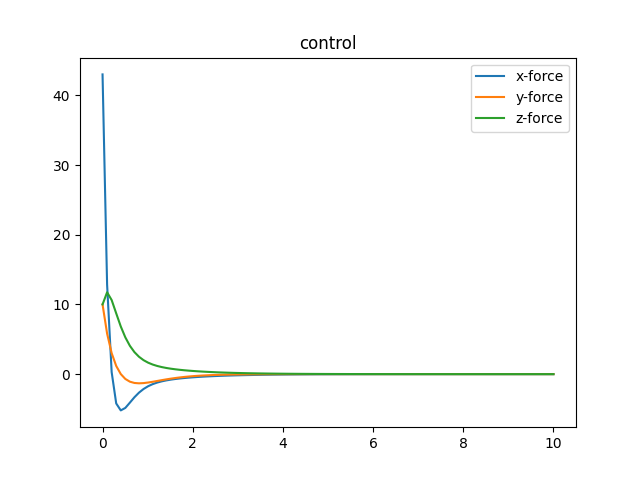
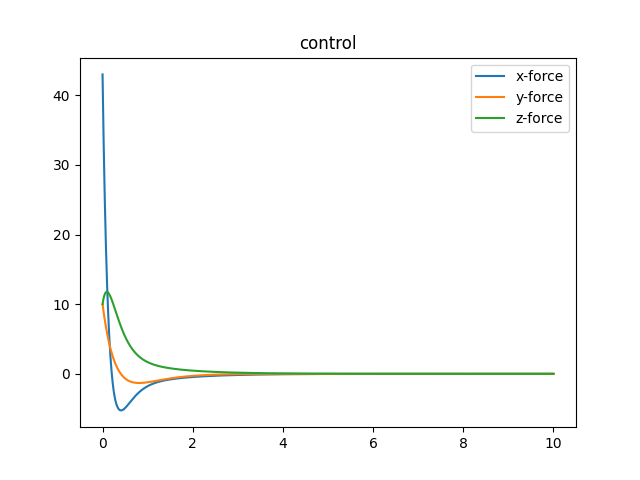
Increase h to get smoother plots

diff --git a/__.py b/__.py
@@ -12,12 +12,11 @@ m_B = np.array([[0, 0, 0], [0, 0, 0], [0, 0, 0], [1, 0, 0], [0, 1, 0], [0, 0, 1]
 # Feedback Gain
 m_K = np.array([[30, 0, 0, 11, 0, 2], [0, 5, 0, 0, 5, 0], [0, 0, 7, -2, 0, 5]])
 
-
 hill_equation = System(m_A, m_B, m_K)
 
 
 ic = np.array([1, 1, 1, 1, 1, 1])
-times = np.linspace(0, 10, 100)
+times = np.linspace(0, 10, 2000)
 sol = hill_equation.solution(ic, times)
 v_u = m_K.dot(sol.T)
 
